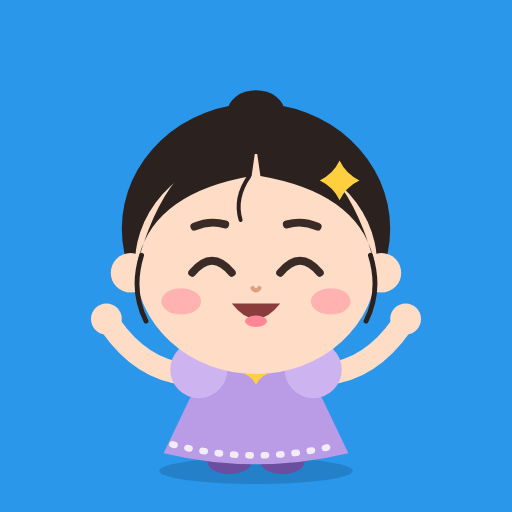
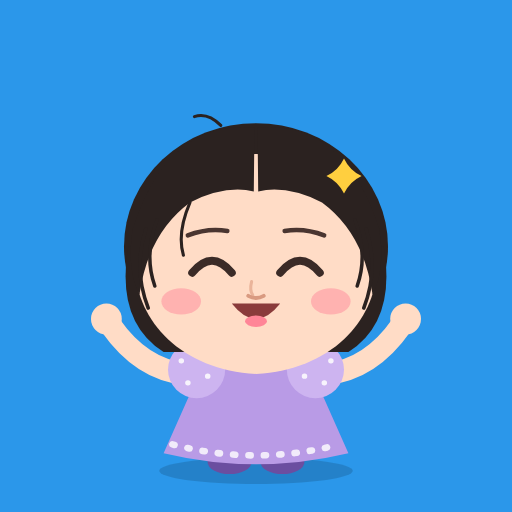
Draw mascot closer to the reference photo
Lower the center-parted hairline, frame the face with hair down to the
jaw instead of side buns, use larger almond-shaped eyes, closed-lip
smiles, a sweetheart lace neckline and a fine star necklace.

Claude-Session: https://claude.ai/code/session_018ZiwnoyHuiHny4Dgwy3f2N

diff --git a/index.html b/index.html
@@ -385,12 +385,17 @@ button { cursor: pointer; }
   function girlFace(g) {
     const ink = "#3b2b27";
     const s = `stroke="${ink}" stroke-width="3.6" stroke-linecap="round" stroke-linejoin="round" fill="none"`;
-    const openEye = (cx) =>
-      `<ellipse cx="${cx}" cy="102" rx="7" ry="8.6" fill="${ink}"/>` +
-      `<circle cx="${cx + 2.4}" cy="98.6" r="2.6" fill="#fff"/><circle cx="${cx - 2.6}" cy="105.5" r="1.2" fill="#fff" opacity=".8"/>` +
-      `<path d="M${cx - 8.5} 95.5 Q${cx} 90 ${cx + 8.5} 95.5" ${s} stroke-width="2.4"/>`;
-    const worriedBrows = `<path d="M71 86 L87 81" ${s} stroke-width="2.6"/><path d="M113 81 L129 86" ${s} stroke-width="2.6"/>`;
-    const calmBrows = `<path d="M72 83 Q79 80 86 82" ${s} stroke-width="2.2"/><path d="M114 82 Q121 80 128 83" ${s} stroke-width="2.2"/>`;
+    const openEye = (cx) => {
+      const id = cx < 100 ? "eyeL" : "eyeR";
+      const shape = `M${cx - 11} 103 Q${cx - 1} 90 ${cx + 11} 101 Q${cx + 1} 112 ${cx - 11} 103 Z`;
+      return `<clipPath id="${id}"><path d="${shape}"/></clipPath>` +
+        `<path d="${shape}" fill="#fffaf6"/>` +
+        `<g clip-path="url(#${id})"><circle cx="${cx}" cy="101.5" r="7.2" fill="#4a2f27"/><circle cx="${cx}" cy="101.5" r="3.6" fill="#1d1210"/>` +
+        `<circle cx="${cx + 2.6}" cy="98.6" r="2.4" fill="#fff"/><circle cx="${cx - 2.6}" cy="104.6" r="1.1" fill="#fff" opacity=".8"/></g>` +
+        `<path d="M${cx - 12} 103.4 Q${cx - 1} 88.6 ${cx + 12} 100.8" ${s} stroke-width="3"/>`;
+    };
+    const worriedBrows = `<path d="M69 88 L87 83" ${s} stroke-width="2.2"/><path d="M113 83 L131 88" ${s} stroke-width="2.2"/>`;
+    const calmBrows = `<path d="M69 87 Q78 83.5 87 85" stroke="#4a3530" stroke-width="2" stroke-linecap="round" fill="none"/><path d="M113 85 Q122 83.5 131 87" stroke="#4a3530" stroke-width="2" stroke-linecap="round" fill="none"/>`;
     const blush = (op) => `<ellipse cx="66" cy="117" rx="9" ry="6" fill="#ff8f9f" opacity="${op}"/><ellipse cx="134" cy="117" rx="9" ry="6" fill="#ff8f9f" opacity="${op}"/>`;
     const tear = (x, y) => `<path d="M${x} ${y} Q${x - 5} ${y + 12} ${x} ${y + 16} Q${x + 5} ${y + 12} ${x} ${y}Z" fill="#a9dcff" stroke="#6bb8ec" stroke-width="1.5"/>`;
     const mask =
@@ -412,18 +417,18 @@ button { cursor: pointer; }
         break;
       case 3:
         eyes = openEye(80) + openEye(120);
-        mouth = `<path d="M90 120 Q100 128 110 120" ${s} stroke="#9a4a46"/>`;
-        extra = blush(.4);
+        mouth = `<path d="M90 123 Q100 130 110 123 Q100 127.5 90 123 Z" fill="#d98585"/><path d="M90 123 Q100 127.5 110 123" stroke="#a5534f" stroke-width="1.6" stroke-linecap="round" fill="none"/>`;
+        extra = blush(.35);
         break;
       case 4:
         eyes = openEye(80) + openEye(120);
-        mouth = `<path d="M93 122 Q100 125 107 122" ${s} stroke="#9a4a46"/>`;
-        extra = blush(.25);
+        mouth = `<path d="M92 124 Q100 128 108 124 Q100 126.5 92 124 Z" fill="#d98585"/><path d="M92 124 Q100 126 108 124" stroke="#a5534f" stroke-width="1.6" stroke-linecap="round" fill="none"/>`;
+        extra = blush(.22);
         break;
       case 5:
         eyes = openEye(80) + openEye(120);
         brows = worriedBrows;
-        mouth = `<path d="M92 125 Q100 120 108 125" ${s} stroke="#9a4a46"/>`;
+        mouth = `<path d="M92 127 Q100 122 108 127 Q100 125 92 127 Z" fill="#d98585"/><path d="M92 127 Q100 122.5 108 127" stroke="#a5534f" stroke-width="1.8" stroke-linecap="round" fill="none"/>`;
         break;
       case 6:
         eyes = `<path d="M71 101 H89" ${s}/><path d="M73 101 Q80 109 87 101 Z" fill="${ink}"/>` +
@@ -447,7 +452,7 @@ button { cursor: pointer; }
         eyes = openEye(80) + openEye(120);
         mouth = `<path d="M94 123 H106" ${s} stroke="#9a4a46"/>`;
     }
-    const nose = g >= 7 ? "" : `<path d="M98.5 111 Q100 113 101.5 111" stroke="#e0a080" stroke-width="2" stroke-linecap="round" fill="none"/>`;
+    const nose = g >= 7 ? "" : `<path d="M98 108 Q97 112 98.5 114" stroke="#eab49a" stroke-width="1.4" stroke-linecap="round" fill="none"/><path d="M96.5 114.5 Q100 116.5 103.5 114.5" stroke="#d99a80" stroke-width="1.8" stroke-linecap="round" fill="none"/>`;
     return `${extra}${brows}${nose}<g class="${g >= 3 && g <= 5 || g === 0 ? "blink" : ""}">${eyes}</g>${mouth}`;
   }
 
@@ -475,24 +480,25 @@ button { cursor: pointer; }
       <ellipse cx="88" cy="190" rx="10" ry="5.5" fill="#6b4ea0"/>
       <ellipse cx="112" cy="190" rx="10" ry="5.5" fill="#6b4ea0"/>
       ${arms}
-      <path d="M80 140 Q100 148 120 140 L142 186 Q100 196 58 186 Z" fill="${dress}"/>
+      <path d="M78 141 Q90 136 100 145 Q110 136 122 141 L142 186 Q100 196 58 186 Z" fill="${dress}"/>
+      <path d="M80 142 Q90 138 100 147 Q110 138 120 142" stroke="#fff" stroke-width="3" stroke-dasharray="0.5 4.5" stroke-linecap="round" fill="none" opacity=".9"/>
       <path d="M62 182 Q100 192 138 182" stroke="#fff" stroke-width="3" stroke-dasharray="1 6" stroke-linecap="round" fill="none" opacity=".8"/>
-      <circle cx="74" cy="148" r="13" fill="${sleeve}"/>
-      <circle cx="126" cy="148" r="13" fill="${sleeve}"/>
-      <rect x="93" y="128" width="14" height="14" rx="5" fill="${skinShade}"/>
-      <path d="M86 140 Q100 152 114 140" stroke="#e2b23a" stroke-width="1.6" fill="none"/>
-      ${star(100, 150, 5, "#ffcf3f")}
-      <ellipse cx="100" cy="84" rx="61" ry="57" fill="${hair}"/>
-      <ellipse cx="100" cy="31" rx="13" ry="10" fill="${hair}"/>
-      <circle cx="43" cy="104" r="9" fill="${skin}"/>
-      <circle cx="157" cy="104" r="9" fill="${skin}"/>
-      <ellipse cx="100" cy="100" rx="55" ry="50" fill="${skin}"/>
-      <path d="M100 46 Q62 42 46 100 Q52 68 98 60 Z" fill="${hair}"/>
-      <path d="M100 46 Q138 42 154 100 Q148 68 102 60 Z" fill="${hair}"/>
-      <path d="M48 96 Q43 112 50 126" stroke="${hair}" stroke-width="2.2" stroke-linecap="round" fill="none"/>
-      <path d="M152 96 Q157 112 150 126" stroke="${hair}" stroke-width="2.2" stroke-linecap="round" fill="none"/>
-      <path d="M97 60 Q90 70 93 80" stroke="${hair}" stroke-width="1.8" stroke-linecap="round" fill="none"/>
-      <g transform="rotate(${g >= 7 ? 30 : 0} 138 62)">${star(138, 62, 9, pin)}</g>
+      <circle cx="73" cy="148" r="13" fill="${sleeve}"/>
+      <circle cx="127" cy="148" r="13" fill="${sleeve}"/>
+      <path d="M66 144 h.1 M74 140 h.1 M78 151 h.1 M69 154 h.1 M134 144 h.1 M126 140 h.1 M122 151 h.1 M131 154 h.1" stroke="#fff" stroke-width="2.4" stroke-linecap="round" opacity=".85"/>
+      <rect x="93" y="128" width="14" height="16" rx="5" fill="${skinShade}"/>
+      <path d="M93 132 Q100 143 107 132" stroke="#e2b23a" stroke-width="1.1" fill="none"/>
+      ${star(100, 141, 4.2, "#ffcf3f")}
+      <ellipse cx="100" cy="92" rx="60" ry="56" fill="${hair}"/>
+      <path d="M42 92 Q36 126 58 140 L142 140 Q164 126 158 92 Z" fill="${hair}"/>
+      <path d="M100 50 C136 50 156 74 155 102 C154 126 134 148 100 150 C66 148 46 126 45 102 C44 74 64 50 100 50 Z" fill="${skin}"/>
+      <path d="M99.3 38 Q60 34 44 84 Q41 102 47 114 Q51 86 70 72 Q86 64 99 67 Z" fill="${hair}"/>
+      <path d="M100.7 38 Q140 34 156 84 Q159 102 153 114 Q149 86 130 72 Q114 64 101 67 Z" fill="${hair}"/>
+      <path d="M50 84 Q44 102 51 120 M55 80 Q49 96 54 110" stroke="${hair}" stroke-width="1.6" stroke-linecap="round" fill="none"/>
+      <path d="M150 84 Q156 102 149 120 M145 80 Q151 96 146 110" stroke="${hair}" stroke-width="1.6" stroke-linecap="round" fill="none"/>
+      <path d="M70 72 Q64 86 67 96" stroke="${hair}" stroke-width="1.4" stroke-linecap="round" fill="none"/>
+      <path d="M84 37 Q78 31 72 33" stroke="${hair}" stroke-width="1.4" stroke-linecap="round" fill="none"/>
+      <g transform="rotate(${g >= 7 ? 30 : 0} 140 60)">${star(140, 60, 8, pin)}</g>
       ${girlFace(g)}
     </svg>`;
   }

diff --git a/sw.js b/sw.js
@@ -1,5 +1,5 @@
 // 앱 화면만 캐시한다. 대기질 데이터는 앱이 직접 받아오고 마지막 값을 따로 저장한다.
-const CACHE = "oneulmeonji-v3";
+const CACHE = "oneulmeonji-v4";
 const SHELL = ["./", "index.html", "manifest.webmanifest", "icon.svg", "icon-192.png", "icon-512.png"];
 
 self.addEventListener("install", (e) => {
